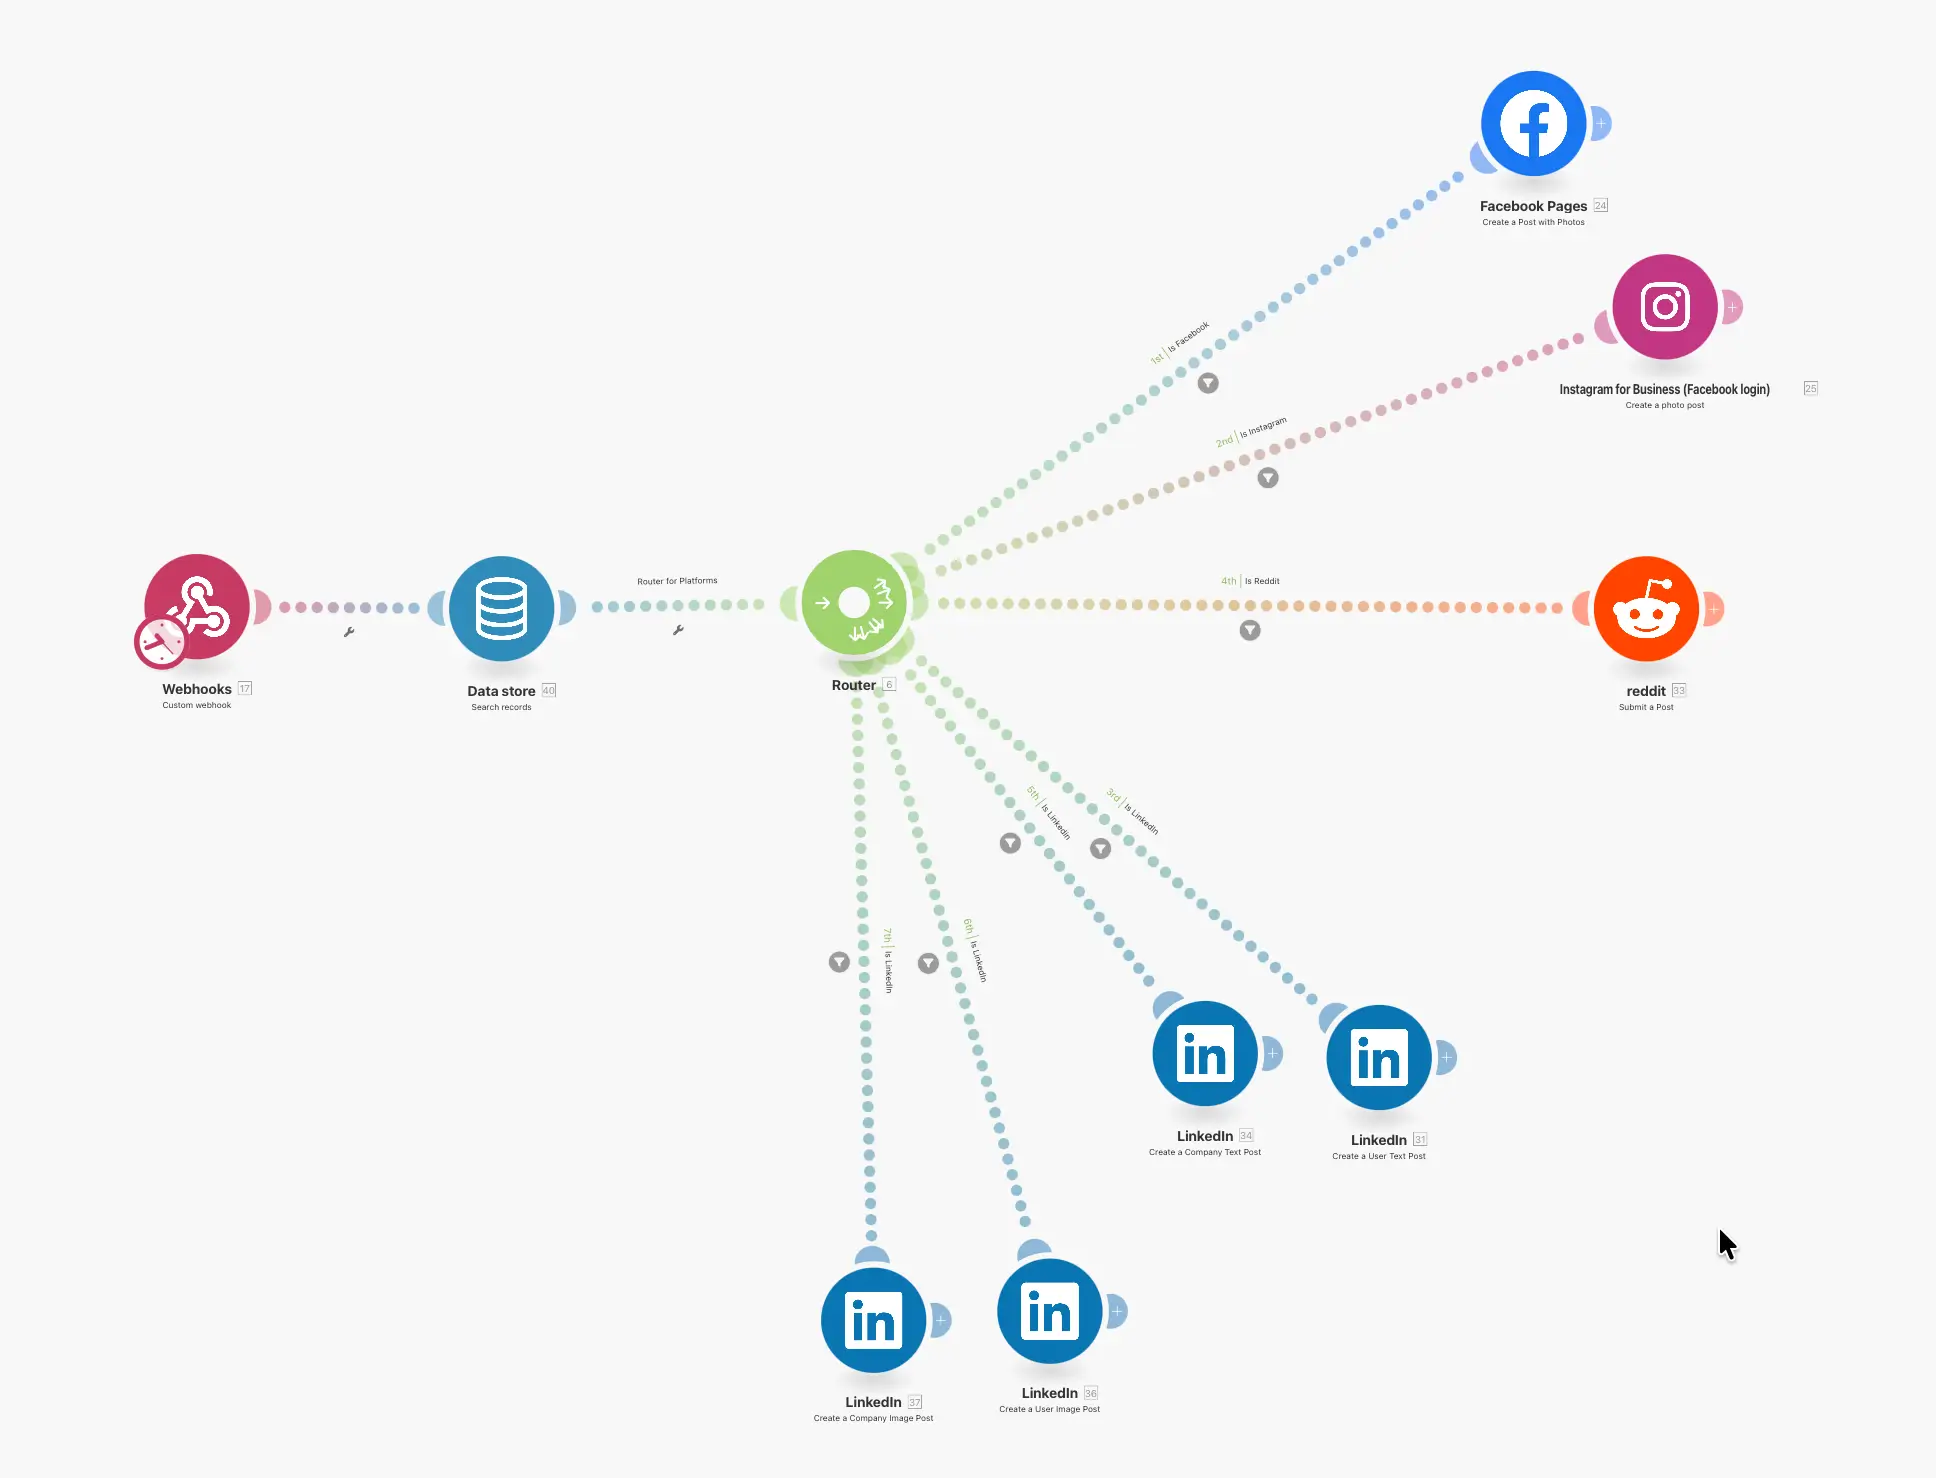
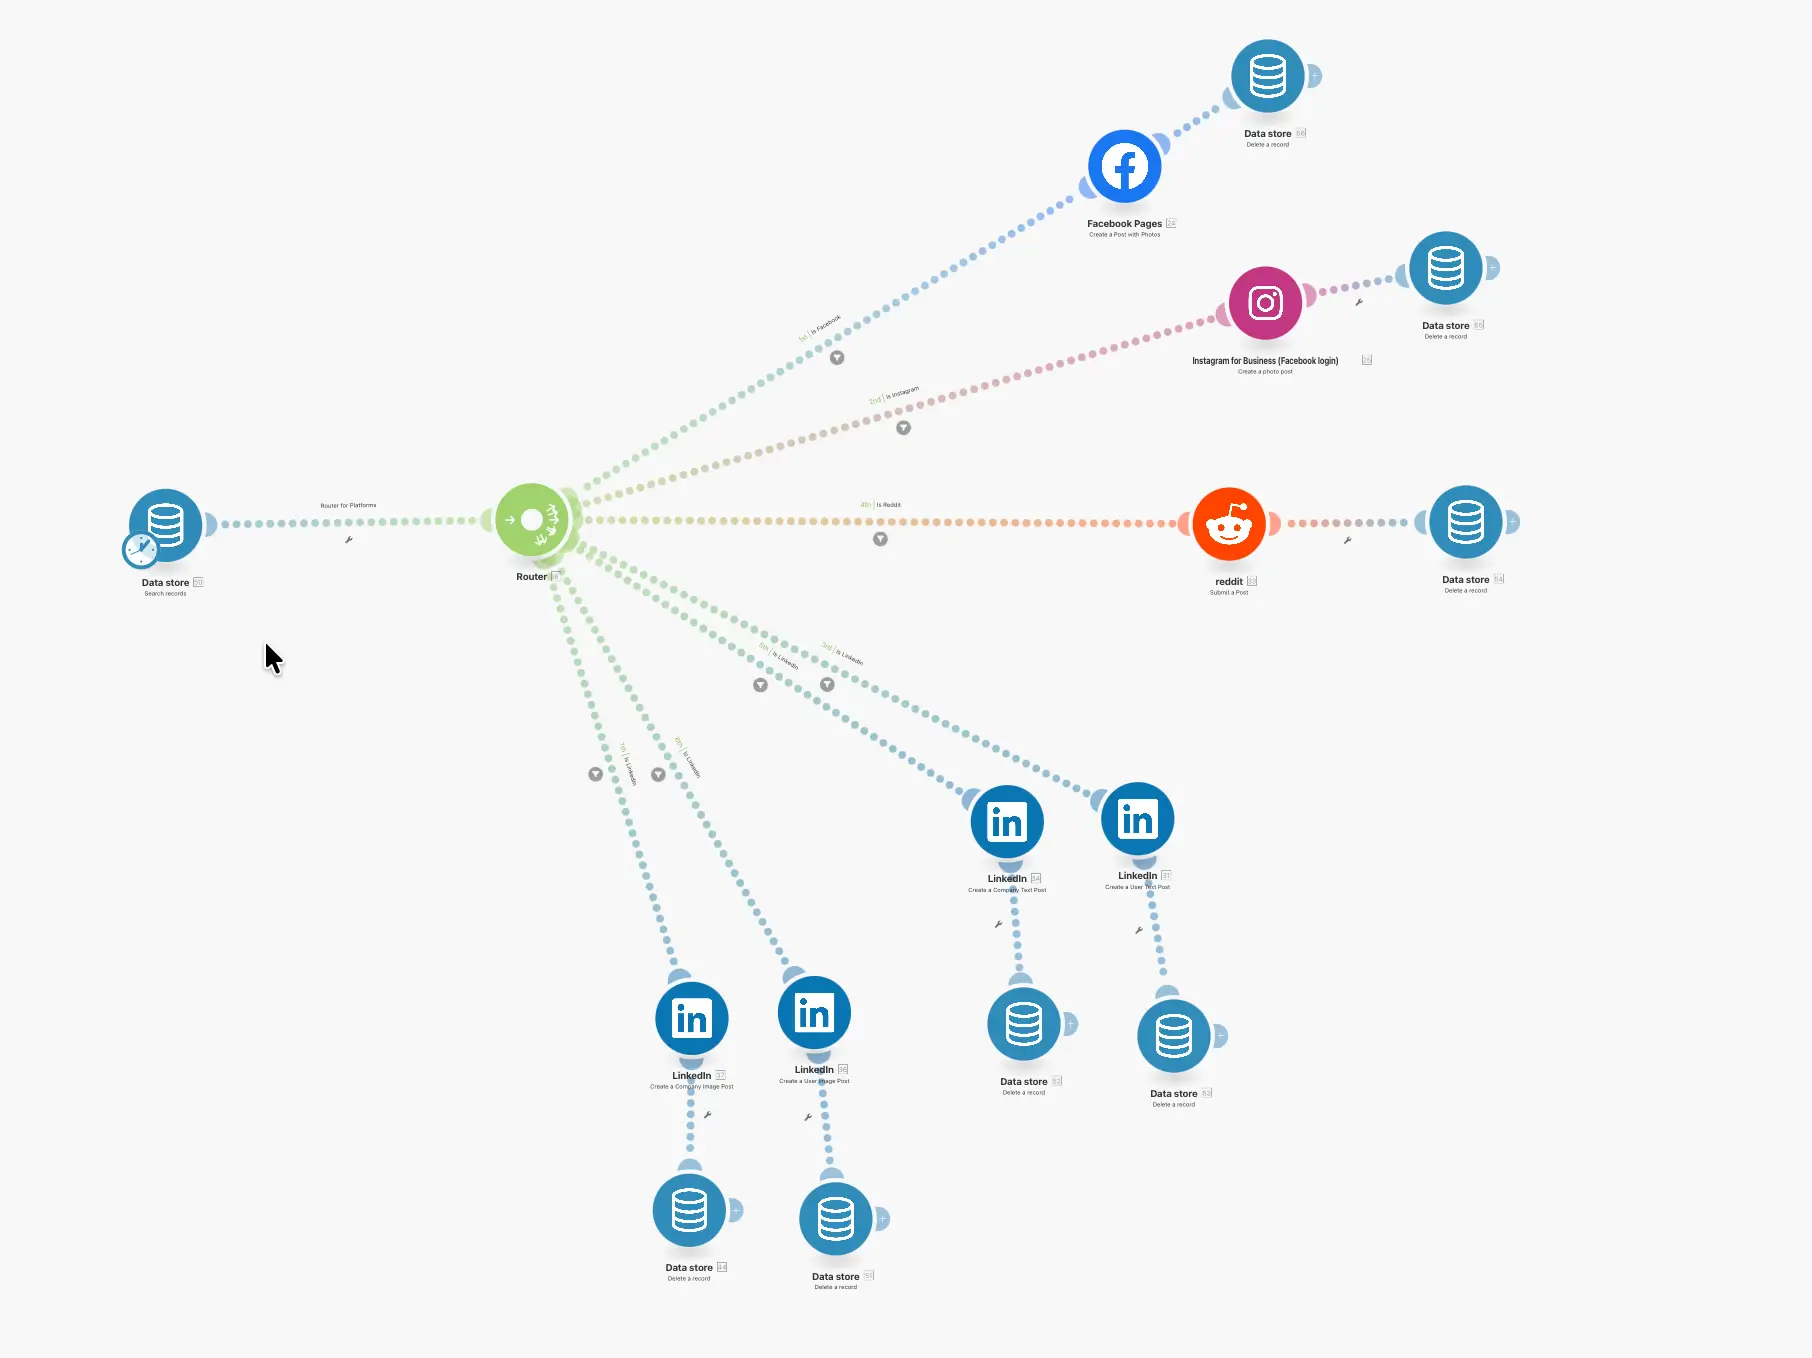
docs: update Deep Guide - clarify Publisher scenario setup + new schedule screenshot

diff --git a/frontend/src/pages/Settings.jsx b/frontend/src/pages/Settings.jsx
@@ -808,7 +808,7 @@ export default function Settings() {
                             <div style={{ background: 'rgba(99, 102, 241, 0.1)', padding: '16px', borderRadius: '8px', marginBottom: '16px', border: '1px solid rgba(99, 102, 241, 0.3)' }}>
                                 <h4 style={{ fontSize: '15px', fontWeight: '600', marginBottom: '12px', color: 'var(--accent)' }}>⚠ Important: Router Filter Setup</h4>
                                 <p style={{ marginBottom: '12px', fontSize: '14px' }}>Your Router needs TWO paths with different filters:</p>
-                                
+
                                 <div style={{ background: 'var(--bg-secondary)', padding: '12px', borderRadius: '6px', marginBottom: '12px' }}>
                                     <strong style={{ color: 'var(--success)' }}>Path 1: Instant Publishing → LinkedIn/Platform</strong>
                                     <ul style={{ paddingLeft: '20px', margin: '8px 0 0 0', fontSize: '13px' }}>
@@ -816,7 +816,7 @@ export default function Settings() {
                                         <li>OR: <code>scheduled_at</code> <strong>Less than or equal to</strong> <code>now</code></li>
                                     </ul>
                                 </div>
-                                
+
                                 <div style={{ background: 'var(--bg-secondary)', padding: '12px', borderRadius: '6px' }}>
                                     <strong style={{ color: '#a855f7' }}>Path 2: Scheduled → Data Store</strong>
                                     <ul style={{ paddingLeft: '20px', margin: '8px 0 0 0', fontSize: '13px' }}>
@@ -845,15 +845,25 @@ export default function Settings() {
                                 </ul>
                             </div>
 
-                            <div style={{ background: 'var(--bg-tertiary)', padding: '16px', borderRadius: '8px', marginBottom: '24px' }}>
+                            <div style={{ background: 'var(--bg-tertiary)', padding: '16px', borderRadius: '8px', marginBottom: '16px' }}>
                                 <h4 style={{ fontSize: '15px', fontWeight: '600', marginBottom: '12px' }}>⏰ Create Publisher Scenario:</h4>
-                                <p style={{ marginBottom: '8px' }}>Create a second scenario that runs every 15 minutes:</p>
+                                <p style={{ marginBottom: '8px' }}>Create a <strong>separate scenario</strong> that checks Data Store every 15 minutes:</p>
                                 <ol style={{ paddingLeft: '20px', marginBottom: '0' }}>
-                                    <li style={{ marginBottom: '4px' }}>Trigger: <strong>Schedule</strong> (every 15 min)</li>
-                                    <li style={{ marginBottom: '4px' }}>Module: <strong>Data Store → Search</strong> (where scheduled_at ≤ now)</li>
+                                    <li style={{ marginBottom: '4px' }}>First module: <strong>Data Store → Search records</strong> (NOT Webhook!)</li>
+                                    <li style={{ marginBottom: '4px' }}>Filter: <code>scheduled_at</code> ≤ <code>now</code></li>
                                     <li style={{ marginBottom: '4px' }}>Router → Platform modules (same as main scenario)</li>
-                                    <li>Module: <strong>Data Store → Delete record</strong></li>
+                                    <li style={{ marginBottom: '4px' }}>After each platform: <strong>Data Store → Delete record</strong> (Key from Search)</li>
+                                    <li>Set scenario schedule: <strong>Every 15 minutes</strong> (bottom left clock icon)</li>
                                 </ol>
+                            </div>
+
+                            <div style={{ background: 'rgba(245, 158, 11, 0.1)', padding: '16px', borderRadius: '8px', marginBottom: '24px', border: '1px solid rgba(245, 158, 11, 0.3)' }}>
+                                <h4 style={{ fontSize: '15px', fontWeight: '600', marginBottom: '8px', color: '#f59e0b' }}>⚠ Important: No Webhook in Publisher!</h4>
+                                <p style={{ fontSize: '14px', margin: 0 }}>
+                                    Publisher scenario starts with <strong>Data Store Search</strong>, not Webhook.
+                                    Schedule is set in <strong>scenario settings</strong> (clock icon), not as a module.
+                                    Delete record after publishing to prevent duplicate posts.
+                                </p>
                             </div>
 
                             <button
